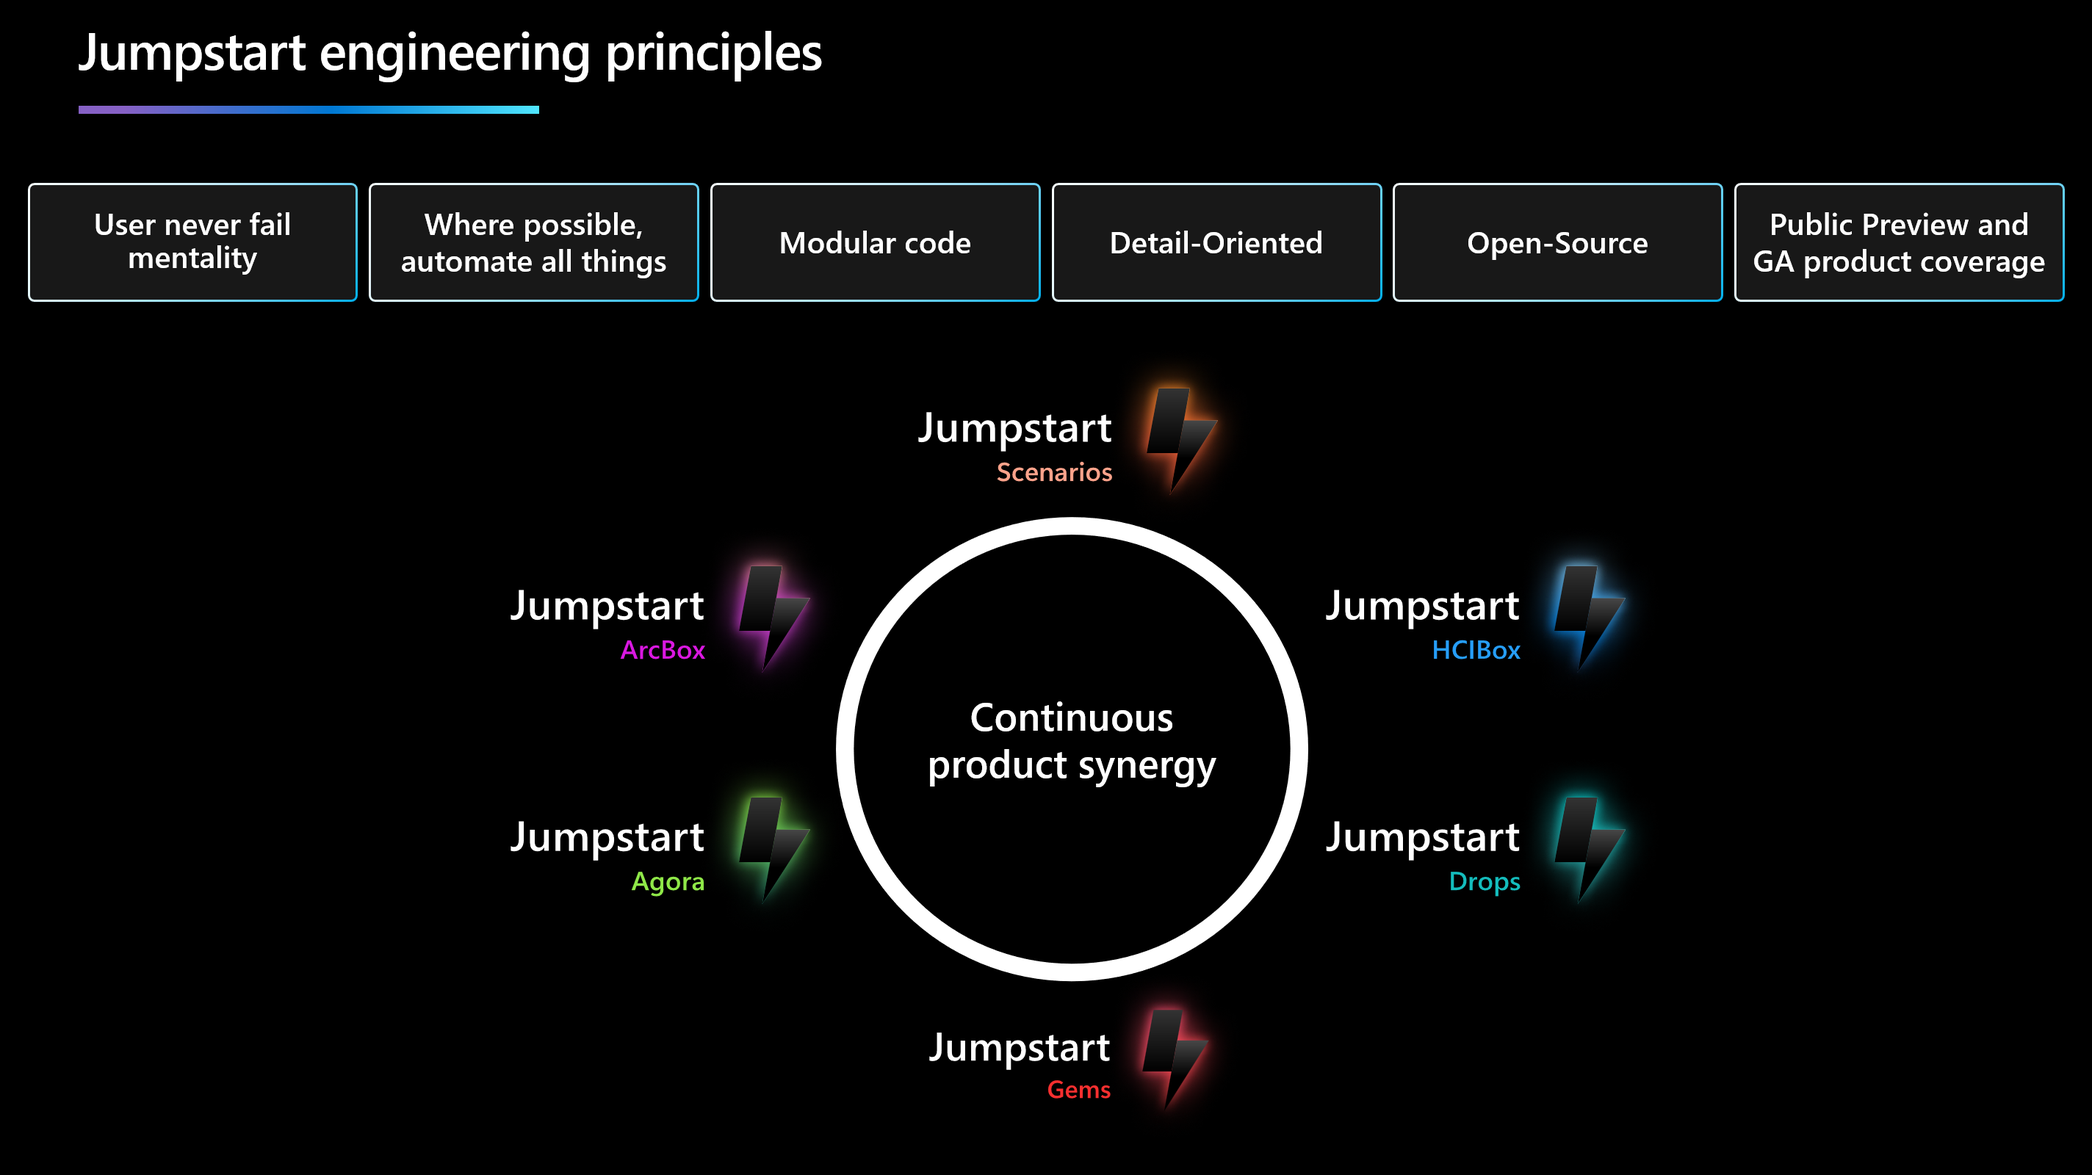
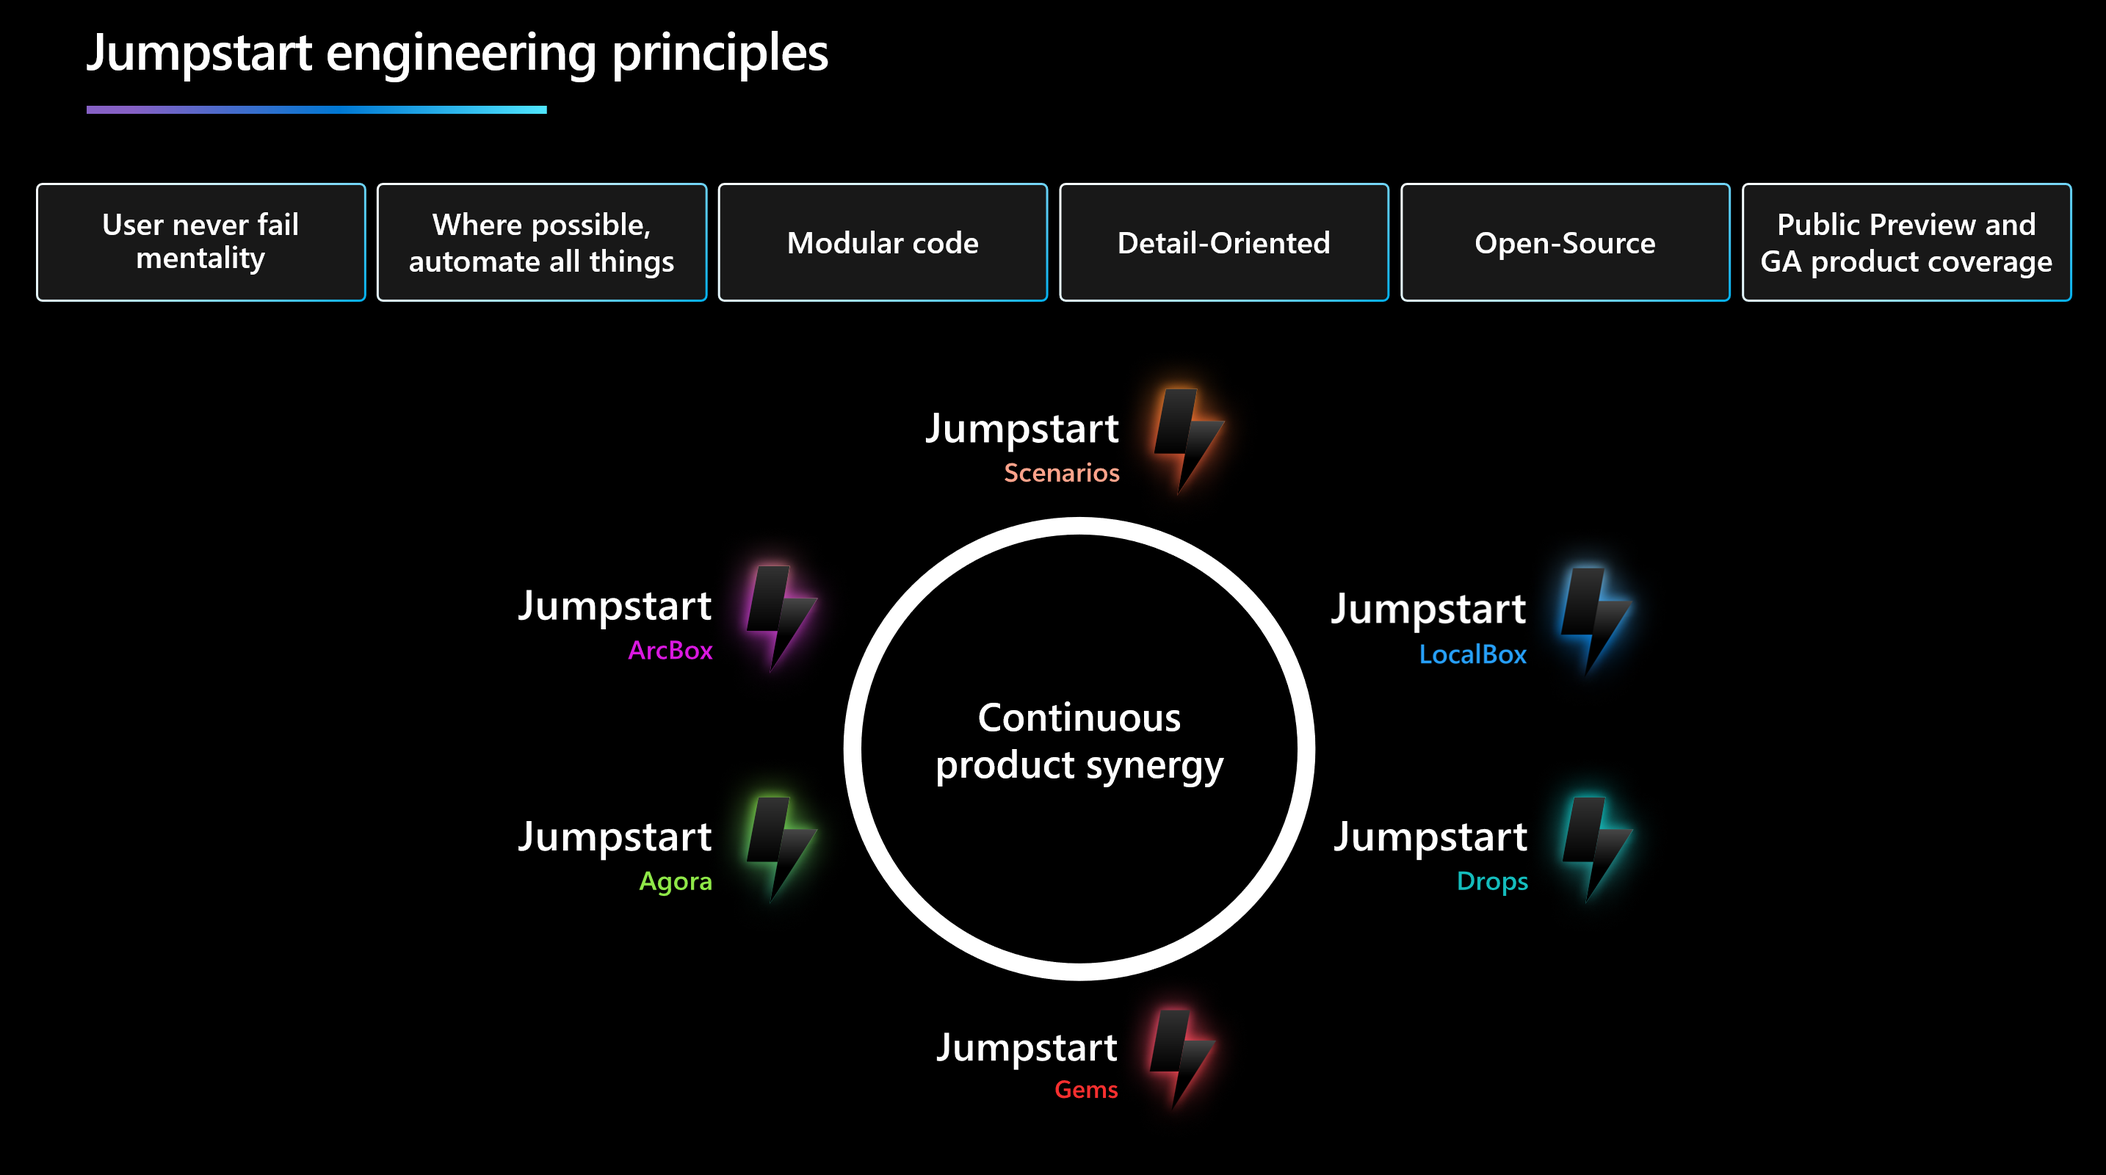
localbox_docs_hotfix

diff --git a/docs/azure_jumpstart_localbox/cloud_deployment/_index.md b/docs/azure_jumpstart_localbox/cloud_deployment/_index.md
@@ -16,11 +16,11 @@ Once your Bicep deployment is complete, you can open the Azure portal to see the
 
 ## Connecting to the LocalBox Client virtual machine
 
-> **Note:** As the subnet the Azure Local VMs resides on is on the second nested layer, it is necessary to connect to the AzSMGMT machine to be able to connect to those VMs:
+> **Note:** As the subnet the Azure Local VMs resides on is on the second nested layer, it is necessary to connect to the AzLMGMT machine to be able to connect to those VMs:
 > The Azure Local VM subnet is also not routable into the Azure Virtual Network, hence it won't be possible to connect to virtual machines on the Azure Local instance using Azure Bastion.
 >
 > If you are having difficulties connecting into a Azure Local VM:
-> You can run `mstsc /v:192.168.1.11` from LocalBox-Client to connect to the AzSMGMT nested VM.
+> You can run `mstsc /v:192.168.1.11` from LocalBox-Client to connect to the AzLMGMT nested VM.
 > From there, run `mstsc /v:192.168.200.x` to connect to the Azure Local VMs (replace x with the IP of your deployed VM).
 
 Various options are available to connect to _LocalBox-Client_ VM, depending on the parameters you supplied during deployment.
@@ -68,12 +68,12 @@ If you already have [Microsoft Defender for Cloud](https://learn.microsoft.com/a
 
 ### The Logon scripts
 
-- Once you log into the _LocalBox-Client_ VM, a PowerShell script will open and start running. This script will take anywhere between 2-3 hours to finish, and once completed, the script window will close automatically. If there are any HCI updates available, we need to add 1 additional hour to the estimated deployment time.
+- Once you log into the _LocalBox-Client_ VM, a PowerShell script will open and start running. This script will take anywhere between 2-3 hours to finish, and once completed, the script window will close automatically. If there are any Azure Local updates available, we need to add 1 additional hour to the estimated deployment time.
 At this point, the infrastructure deployment is complete.
 
   ![Screenshot showing _LocalBox-Client_](./automation.png)
 
-- In the Azure portal, validate that both Azure Local machines (AzSHOST1 and AzSHOST2) have been created as Arc-enabled servers.
+- In the Azure portal, validate that both Azure Local machines (AzLHOST1 and AzLHOST2) have been created as Arc-enabled servers.
 
 - Verify that both of the Arc-enabled servers have successfully installed the three Azure Local extensions: AzureEdgeTelemetryAndDiagnostics, AzureEdgeLifecycleManager, and AzureEdgeDeviceManagement
 
@@ -100,7 +100,7 @@ Visit [troubleshooting](../troubleshooting/) if needed for deployment issues.
 
 - Now you will use the generated ARM template to validate the Azure Local instance in Azure portal. Open File Explorer on _LocalBox-Client_ and navigate to the _C:\LocalBox_ folder. Right-click on the folder and open it in VSCode.
 
-- Open and review the hci.json and hci.parameters.json files in VSCode. Verify that the hci.parameters.json file looks correct without "_-staging_" placeholder parameter values.
+- Open and review the azlocal.json and azlocal.parameters.json files in VSCode. Verify that the azlocal.parameters.json file looks correct without "_-staging_" placeholder parameter values.
 
 - Navigate to Azure portal and type "custom deployment" in the search bar, then select "Deploy a custom template".
 
@@ -110,11 +110,11 @@ Visit [troubleshooting](../troubleshooting/) if needed for deployment issues.
 
   ![Screenshot showing building your own template option](./build_your_own_template.png)
 
-- Paste the contents of hci.json into the editor and click "Save".
+- Paste the contents of azlocal.json into the editor and click "Save".
 
-  ![Screenshot showing hci.json in Azure portal](./save_template.png)
+  ![Screenshot showing azlocal.json in Azure portal](./save_template.png)
 
-- Click "Edit parameters" and then paste the contents of hci.parameters.json into the editor and click "Save."
+- Click "Edit parameters" and then paste the contents of azlocal.parameters.json into the editor and click "Save."
 
   ![Screenshot showing edit parameters option](./edit_parameters.png)
 

diff --git a/docs/azure_jumpstart_localbox/using_localbox/_index.md b/docs/azure_jumpstart_localbox/using_localbox/_index.md
@@ -22,12 +22,12 @@ LocalBox simulates a 2-node physical deployment of Azure Local by using [nested 
 | _AzLHOST1_       | Azure Local machine                            | Yes           | _LocalBox-Client_ | Azure Local     |
 | _AzLHOST2_       | Azure Local machine                            | Yes           | _LocalBox-Client_ | Azure Local     |
 | _AzLMGMT_        | Nested hypervisor                   | No            | _LocalBox-Client_ | Windows Server 2022 |
-| _JumpstartDC_    | Domain controller                   | Yes (DC)      | _AzSMGMT_       | Windows Server 2022 |
-| _Vm-Router_      | Remote Access Server                | No            | _AzSMGMT_       | Windows Server 2022 |
+| _JumpstartDC_    | Domain controller                   | Yes (DC)      | _AzLMGMT_       | Windows Server 2022 |
+| _Vm-Router_      | Remote Access Server                | No            | _AzLMGMT_       | Windows Server 2022 |
 
 ## Active Directory domain user credentials
 
-Once you are logged into the _LocalBox-Client_ VM using the local admin credentials you supplied in your template parameters during deployment you will need to switch to using a domain account to access most other functions, such as logging into the HCI nodes. The default domain account is _administrator@jumpstart.local_.
+Once you are logged into the _LocalBox-Client_ VM using the local admin credentials you supplied in your template parameters during deployment you will need to switch to using a domain account to access most other functions, such as logging into the Azure Local nodes. The default domain account is _administrator@jumpstart.local_.
 
   > **Note:** The password for this account is set as the same password you supplied during deployment for the local account. Many LocalBox operations will use the domain account wherever credentials are required.
 
@@ -45,7 +45,7 @@ Azure Local integrates with [Azure Monitor](https://learn.microsoft.com/azure/az
 
 - It will take time for the logs data to flow through to Insights. Once data is available, click on the Insights blade of the _LocalBox-Cluster_ resource to view the Insights workbook and explore logs from your instance.
 
-  ![Screenshot showing logs configured](./hci_insights.png)
+  ![Screenshot showing logs configured](./az_local_insights.png)
 
 ## Upgrading Azure Local
 
@@ -60,7 +60,7 @@ If not, we recommend you to check whether there are any updates available.
 
 If the _Status_-column does not indicate _Up to date_, you can trigger the update process by clicking _One-time update_.
 
-See the [product documentation](https://learn.microsoft.com/azure/azure-local/update/about-updates-23h2) for more information about HCI updates.
+See the [product documentation](https://learn.microsoft.com/azure/azure-local/update/about-updates-23h2) for more information about Azure Local updates.
 
 ## Virtual machine management through Azure portal
 

diff --git a/docs/release_notes/_index.md b/docs/release_notes/_index.md
@@ -27,7 +27,7 @@ weight: 6
 - [Feature Request: Add GUIDs for JS Telemetry #3136](https://github.com/microsoft/azure_arc/issues/3136)
 - [Docs Feature: Move ArcBox parameters into table #679](https://github.com/Azure/arc_jumpstart_docs/issues/679)
 
-### Jumpstart HCIBox
+### Jumpstart LocalBox
 
 - [Feature Request: Missing provider requirement #3138](https://github.com/microsoft/azure_arc/issues/3138)
 - [Feature Request: Support Standard_E32s_v6 in HCIBox #3140](https://github.com/microsoft/azure_arc/issues/3140)
@@ -86,7 +86,7 @@ weight: 6
 - [Feature Request: Update NSG priorities #3048](https://github.com/microsoft/azure_arc/issues/3048)
 - [Feature Request: ArcBox - Update ARM API versions for ARM template and Bicep #3111](https://github.com/microsoft/azure_arc/issues/3111)
 
-### Jumpstart HCIBox
+### Jumpstart LocalBox
 
 - [Enhancement: HCIBox - Update Windows Server 2022 vhdx image to Windows Server 2025 #2709](https://github.com/microsoft/azure_arc/issues/2709)
 - [Feature Request: Internal governance automation potentially breaking HCIBox #2998](https://github.com/microsoft/azure_arc/issues/2998)
@@ -151,7 +151,7 @@ weight: 6
 - [Bug / Issue: Deployment error with complex password generator #2904](https://github.com/microsoft/azure_arc/issues/2904)
 - [Bug / Issue: Logon script failing on ArcBox-client multiple times #2992](https://github.com/microsoft/azure_arc/issues/2992)
 
-### Jumpstart HCIBox
+### Jumpstart LocalBox
 
 - [Enhancement: HCIBox - Add more location #2903](https://github.com/microsoft/azure_arc/issues/2903)
 - [Enhancement: Add resource provider registration prerequisite for HCIBox #480](https://github.com/Azure/arc_jumpstart_docs/issues/480)
@@ -188,7 +188,7 @@ weight: 6
 - [Announcing Jumpstart ArcBox 25Q1](https://aka.ms/ArcBox2025Blog)
 - Azure Developer CLI (azd) support depreciation from HCIBox
 - Deprecating "Contoso Bakeries" scenario
-- Critical Jumpstart HCIBox bug fixes
+- Critical Jumpstart LocalBox bug fixes
 - Other issue fixes
 
 ### Jumpstart ArcBox
@@ -197,7 +197,7 @@ weight: 6
 - [Bug: Logon scripts on ARCBoxClient machine fail! #2845](https://github.com/microsoft/azure_arc/issues/2845)
 - [Docs: Azure ArcBox for ITPros deployment #448](https://github.com/Azure/arc_jumpstart_docs/issues/448)
 
-### Jumpstart HCIBox
+### Jumpstart LocalBox
 
 - [Bug: Type 'ValidateAzureStackNetworkATCSettings' of Role 'HostNetwork' raised an exception: #2861](https://github.com/microsoft/azure_arc/issues/2861)
 - [Bug: main.azd.bicep contains unsupported region #2873](https://github.com/microsoft/azure_arc/issues/2873)

diff --git a/docs/azure_jumpstart_localbox/SQLMI/_index.md b/docs/azure_jumpstart_localbox/SQLMI/_index.md
@@ -53,7 +53,7 @@ Azure Data Studio is installed and pre-configured on the AdminCenter computer to
 
 ## Azure Arc-enabled SQL Managed Instance stress simulation
 
-LocalBox includes a dedicated SQL stress simulation tool named SqlQueryStress automatically installed for you on the Client VM. SqlQueryStress will allow you to generate load on the Azure Arc-enabled SQL Managed Instance that can be done used to showcase how the SQL database and services are performing as well as the HCI cluster.
+LocalBox includes a dedicated SQL stress simulation tool named SqlQueryStress automatically installed for you on the Client VM. SqlQueryStress will allow you to generate load on the Azure Arc-enabled SQL Managed Instance that can be done used to showcase how the SQL database and services are performing as well as the Azure Local cluster.
 
 - To start with, open the SqlQueryStress desktop shortcut and connect to the Arc-enabled SQL Managed Instance primary endpoint Ip address. This can be found in the _SQLMI Endpoints_ text file desktop shortcut that was created for you. Or you can get the primary endpoint from the Azure portal.
 
@@ -79,7 +79,7 @@ LocalBox includes a dedicated SQL stress simulation tool named SqlQueryStress au
 
   ![Screenshot showing SQLstress running](./sql_stress_running.png)
 
-- To monitor the performance of the HCI cluster, click on the Insights workbook and explore logs from your cluster.
+- To monitor the performance of the Azure Local cluster, click on the Insights workbook and explore logs from your cluster.
 
     ![Screenshot showing the VM insights workbook](./insights_workbook.png)
 

diff --git a/docs/azure_jumpstart_localbox/getting_started/_index.md b/docs/azure_jumpstart_localbox/getting_started/_index.md
@@ -24,7 +24,7 @@ LocalBox is a turnkey solution that provides a complete sandbox for exploring [A
 
 ### 2-node Azure Local instance
 
-LocalBox automatically creates and configures a two-node Azure Local instance using nested virtualization with Hyper-V running on an Azure Virtual Machine. This Hyper-V host creates three guest virtual machines: two Azure Local machines (_AzSHost1_, _AzSHost2_), and one nested Hyper-V host (_AzSMGMT_). _AzSMGMT_ itself hosts two guest VMs: an [Active Directory domain controller](https://learn.microsoft.com/windows-server/identity/ad-ds/get-started/virtual-dc/active-directory-domain-services-overview), and a [Routing and Remote Access Server](https://learn.microsoft.com/windows-server/remote/remote-access/remote-access) acting as a virtual router.
+LocalBox automatically creates and configures a two-node Azure Local instance using nested virtualization with Hyper-V running on an Azure Virtual Machine. This Hyper-V host creates three guest virtual machines: two Azure Local machines (_AzLHOST1_, _AzLHOST2_), and one nested Hyper-V host (_AzLMGMT_). _AzLMGMT_ itself hosts two guest VMs: an [Active Directory domain controller](https://learn.microsoft.com/windows-server/identity/ad-ds/get-started/virtual-dc/active-directory-domain-services-overview), and a [Routing and Remote Access Server](https://learn.microsoft.com/windows-server/remote/remote-access/remote-access) acting as a virtual router.
 
 ![Screenshot showing LocalBox nested virtualization](./nested_virtualization.png)
 

diff --git a/docs/azure_jumpstart_localbox/troubleshooting/_index.md b/docs/azure_jumpstart_localbox/troubleshooting/_index.md
@@ -23,7 +23,7 @@ Occasionally, you may need to review log output from scripts that run on the _Lo
 | --------------------------------------------- | ----------------------------------------------------------------------------------------------------------------------------------------- |
 | _C:\LocalBox\Logs\Bootstrap.log_              | Output from the initial bootstrapping script that runs on _LocalBox-Client_.                                                              |
 | _C:\LocalBox\Logs\New-LocalBoxCluster.log_    | Output of _New-LocalBoxCluster.ps1_ which configures the Hyper-V host and builds the Azure Local instance, management VMs, and other configurations. |
-| _C:\LocalBox\Logs\Generate-ARM-Template.log_  | Log output of the script that builds the _hci.json_ and _hci.parameters.json_ file                                                        |
+| _C:\LocalBox\Logs\Generate-ARM-Template.log_  | Log output of the script that builds the _azlocal.json_ and _azlocal.parameters.json_ file                                                        |
 | _C:\LocalBox\Logs\LocalBoxLogonScript.log_    | Log output from the orchestrator script that manages the install                                                                          |
 | _C:\LocalBox\Logs\Tools.log_                  | Log output from tools installation during bootstrap                                                                                       |
 

diff --git a/docs/mission/_index.md b/docs/mission/_index.md
@@ -63,7 +63,7 @@ This website has been curated to ensure you have everything you need to begin yo
 
 - **Visual learning:** Visual cues enhance comprehension. Detailed screenshots provide visual context, enhancing your learning experience and making complex topics more accessible.
 
-> **Disclaimer:** Arc Jumpstart focuses on the adaptive cloud product portfolio and capabilities, deployment scenarios, and practical use-cases. While we provide extensive support, please note that Azure best-practices and the integration of various technologies and open-source projects within the scenarios and code are outside our primary scope. The scenarios, including ArcBox, HCIBox, and Agora, are designed for evaluation, training, and demo purposes exclusively and are not intended for production use cases.
+> **Disclaimer:** Arc Jumpstart focuses on the adaptive cloud product portfolio and capabilities, deployment scenarios, and practical use-cases. While we provide extensive support, please note that Azure best-practices and the integration of various technologies and open-source projects within the scenarios and code are outside our primary scope. The scenarios, including ArcBox, LocalBox, and Agora, are designed for evaluation, training, and demo purposes exclusively and are not intended for production use cases.
 
 ## Jumpstart public roadmap
 

diff --git a/docs/azure_jumpstart_localbox/deployment_az/_index.md b/docs/azure_jumpstart_localbox/deployment_az/_index.md
@@ -117,8 +117,8 @@ Azure Bicep is used to deploy LocalBox into your Azure subscription. To deploy, 
 
 | Name | Type | Description | Default |
 | --- | --- | --- | --- |
-| `autoDeployClusterResource` | bool | Choice to enable automatic deployment of Azure Arc enabled HCI cluster resource after the client VM deployment is complete. | true |
-| `autoUpgradeClusterResource` | bool | Choice to enable automatic upgrade of Azure Arc enabled HCI cluster resource after the client VM deployment is complete. Only applicable when autoDeployClusterResource is true. | false |
+| `autoDeployClusterResource` | bool | Choice to enable automatic deployment of Azure Local enabled by Arc cluster resource after the client VM deployment is complete. | true |
+| `autoUpgradeClusterResource` | bool | Choice to enable automatic upgrade of Azure Local enabled by Arc cluster resource after the client VM deployment is complete. Only applicable when autoDeployClusterResource is true. | false |
 | `deployBastion` | bool | Choice to deploy Bastion to connect to the client VM | false |
 | `githubAccount` | string | Target GitHub account | "microsoft" |
 | `githubBranch` | string | Target GitHub branch | "main" |

diff --git a/docs/FAQ/_index.md b/docs/FAQ/_index.md
@@ -29,7 +29,7 @@ Each Arc Jumpstart scenario and solution describes what is needed to run the aut
 
 ## Is Arc Jumpstart considered "production-ready"?
 
-The intention of the Arc Jumpstart is to focus on the core Azure Arc, edge, and IoT capabilities, deployment scenarios, use cases, and ease of use. It does not focus on Azure best practices, and/or other products or open-source projects being leveraged in our code. Jumpstart Scenarios, ArcBox, HCIBox, and Agora are all intended for evaluation, training, and demo purposes only and are not supported for production use cases.
+The intention of the Arc Jumpstart is to focus on the core Azure Arc, edge, and IoT capabilities, deployment scenarios, use cases, and ease of use. It does not focus on Azure best practices, and/or other products or open-source projects being leveraged in our code. Jumpstart Scenarios, ArcBox, LocalBox, and Agora are all intended for evaluation, training, and demo purposes only and are not supported for production use cases.
 
 ## Is there guidance on how to run a demo using the Arc Jumpstart?
 

diff --git a/docs/azure_jumpstart_localbox/RB/_index.md b/docs/azure_jumpstart_localbox/RB/_index.md
@@ -13,7 +13,7 @@ Before you can create virtual machines on your Azure Local instance from Azure p
 
 - Navigate to your instance resource inside the LocalBox resource group and click it.
 
-  ![Screenshot showing instance resource](./hcicluster_rg.png)
+  ![Screenshot showing instance resource](./az_local_cluster_rg.png)
 
 - Click on "VM Images" in the menu and then click the "Add VM image" dropdown and select "From Azure Marketplace."
 
